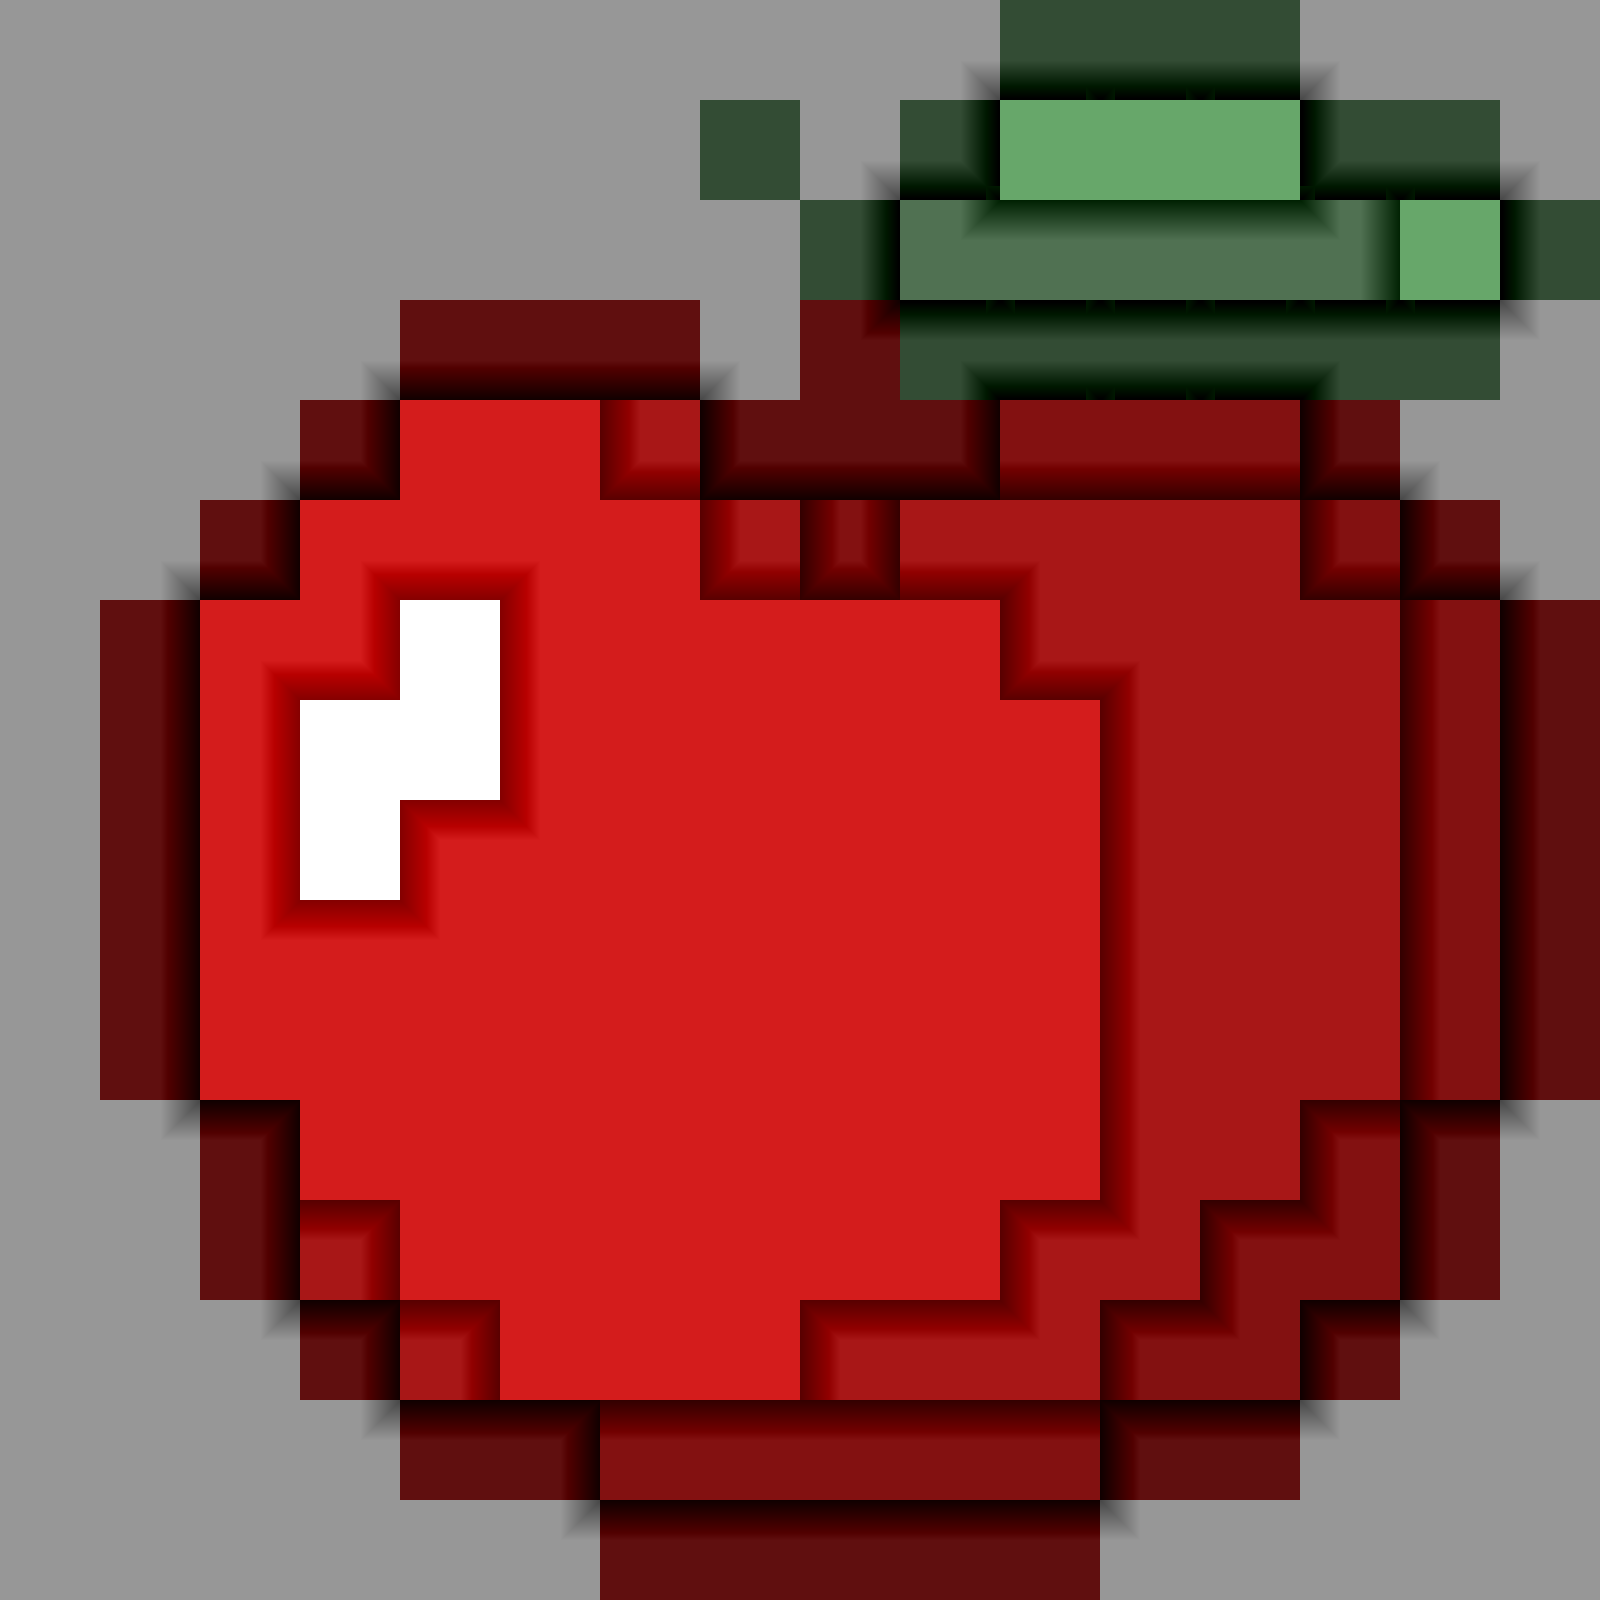
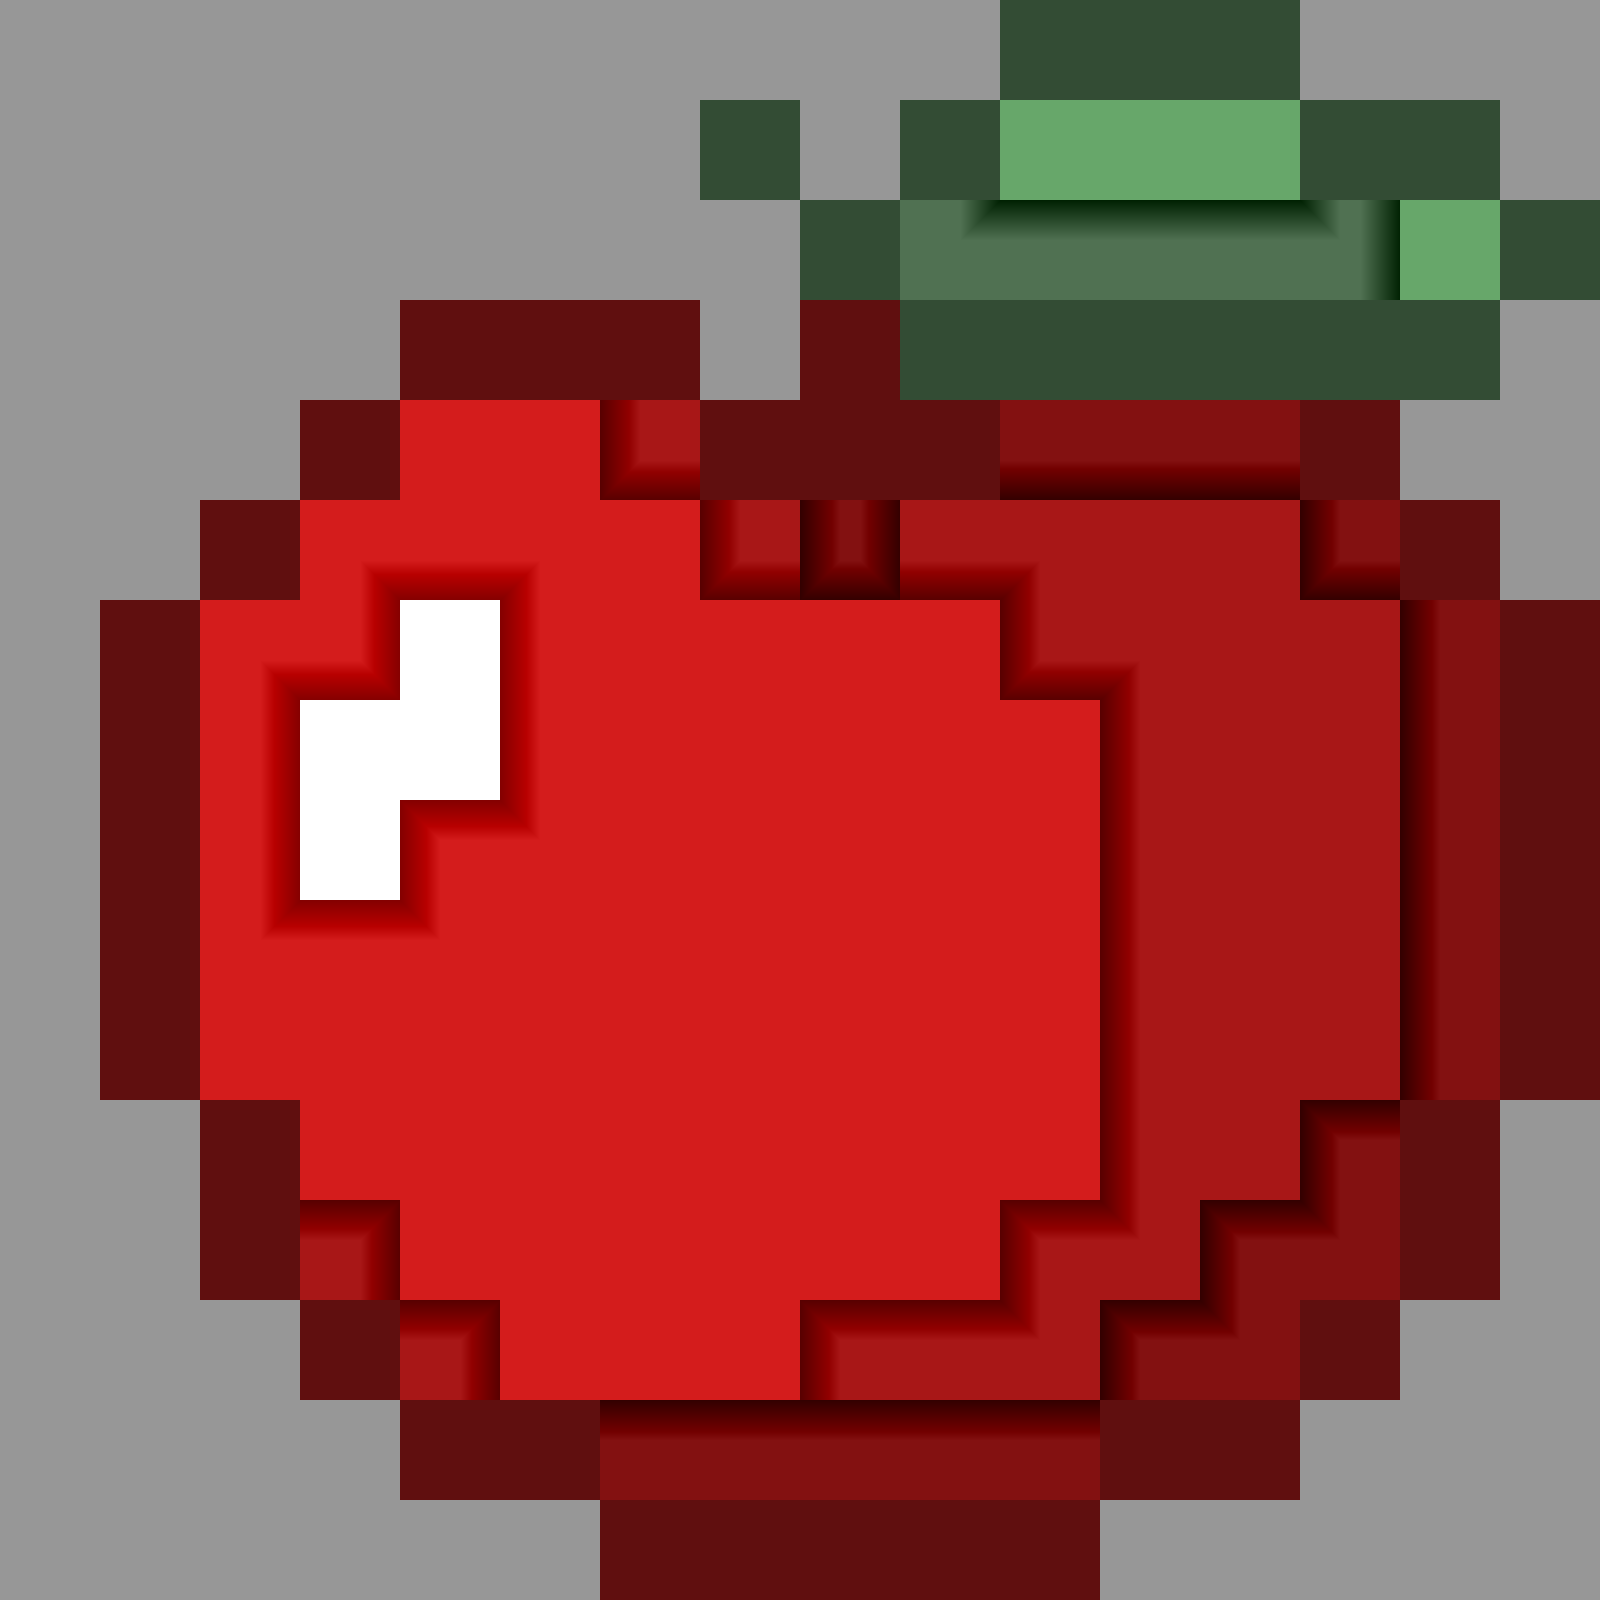
Fix angles on background

Changed region(s): [[0.0938, 0.0312, 0.9688, 0.9688]]

diff --git a/apply_depth.py b/apply_depth.py
@@ -4,52 +4,59 @@ path = "./image_To_Edit/"
 pathLayer = "./depth_Layer/"
 image = Image.open(path + "apple.png")
 layer = Image.open(pathLayer + "apple_depth.png")
+depth_levels = getDepthLevels(layer)
 size = 100
 
 
 def resizer(img) :
     name = "test.png"
-    depthMap = getDepthMap(layer)
+    depthMap = getDepthMap(layer, depth_levels)
+    print(depthMap)
     img2 = Image.new('RGBA', (img.height*size, img.width*size), "white")
     for i in range(img.height) :
         for j in range(img.width) :
             color = img.getpixel((i, j))[:3]
-            north = depthMap[j+1][i] > depthMap[j+1][i+1]
-            south = depthMap[j+1][i+2] > depthMap[j+1][i+1]
-            west = depthMap[j][i+1] > depthMap[j+1][i+1]
-            east = depthMap[j+2][i+1] > depthMap[j+1][i+1]
-            northwest = depthMap[j][i] > depthMap[j+1][i+1]
-            northeast = depthMap[j+2][i] > depthMap[j+1][i+1]
-            southwest = depthMap[j][i+2] > depthMap[j+1][i+1]
-            southeast = depthMap[j+2][i+2] > depthMap[j+1][i+1]
-            for m in range(size) :
-                for n in range(size) :
-                    if north :
-                        if img2.getpixel((i*size+m,j*size+n))[0] > color[0]-(80-m*2) and 80-m*2 >= 0 :
-                            img2.putpixel((i*size+m,j*size+n), (color[0]-(80-m*2), color[1]-(80-m*2), color[2]-(80-m*2)))
-                    if south :
-                        if img2.getpixel((i*size+m,j*size+n))[0] > color[0]-(80-(size-m)*2) and 80-(size-m)*2 >= 0 :
-                            img2.putpixel((i*size+m,j*size+n), (color[0]-(80-(size-m)*2), color[1]-(80-(size-m)*2), color[2]-(80-(size-m)*2)))
-                    if west :
-                        if img2.getpixel((i*size+m,j*size+n))[0] > color[0]-(80-n*2) and 80-n*2 >= 0 :
-                            img2.putpixel((i*size+m,j*size+n), (color[0]-(80-n*2), color[1]-(80-n*2), color[2]-(80-n*2)))
-                    if east :
-                        if img2.getpixel((i*size+m,j*size+n))[0] > color[0]-(80-(size-n)*2) and 80-(size-n)*2 >= 0 :
-                            img2.putpixel((i*size+m,j*size+n), (color[0]-(80-(size-n)*2), color[1]-(80-(size-n)*2), color[2]-(80-(size-n)*2)))
-                    if northwest :
-                        if img2.getpixel((i*size+m,j*size+n))[0] > color[0]-(80-max(m, n)*2) and 80-max(m, n)*2 >= 0 :
-                            img2.putpixel((i*size+m,j*size+n), (color[0]-(80-max(m, n)*2), color[1]-(80-max(m, n)*2), color[2]-(80-max(m, n)*2)))
-                    if northeast :
-                        if img2.getpixel((i*size+m,j*size+n))[0] > color[0]-(80-max(m, (size-n))*2) and 80-max(m, (size-n))*2 >= 0 :
-                            img2.putpixel((i*size+m,j*size+n), (color[0]-(80-max(m, (size-n))*2), color[1]-(80-max(m, (size-n))*2), color[2]-(80-max(m, (size-n))*2)))
-                    if southwest :
-                        if img2.getpixel((i*size+m,j*size+n))[0] > color[0]-(80-max((size-m), n)*2) and 80-max((size-m), n)*2 >= 0 :
-                            img2.putpixel((i*size+m,j*size+n), (color[0]-(80-max((size-m), n)*2), color[1]-(80-max((size-m), n)*2), color[2]-(80-max((size-m), n)*2)))
-                    if southeast :
-                        if img2.getpixel((i*size+m,j*size+n))[0] > color[0]-(80-max((size-m), (size-n))*2) and 80-max((size-m), (size-n))*2 >= 0 :
-                            img2.putpixel((i*size+m,j*size+n), (color[0]-(80-max((size-m), (size-n))*2), color[1]-(80-max((size-m), (size-n))*2), color[2]-(80-max((size-m), (size-n))*2)))
-                    if not(north or south or west or east or northwest or northeast or southwest or southeast) or img2.getpixel((i*size+m,j*size+n))[0] == 255 :
+            if depthMap[j+1][i+1] != -1 :
+                north = depthMap[j+1][i] > depthMap[j+1][i+1]
+                south = depthMap[j+1][i+2] > depthMap[j+1][i+1]
+                west = depthMap[j][i+1] > depthMap[j+1][i+1]
+                east = depthMap[j+2][i+1] > depthMap[j+1][i+1]
+                northwest = depthMap[j][i] > depthMap[j+1][i+1]
+                northeast = depthMap[j+2][i] > depthMap[j+1][i+1]
+                southwest = depthMap[j][i+2] > depthMap[j+1][i+1]
+                southeast = depthMap[j+2][i+2] > depthMap[j+1][i+1]
+                for m in range(size) :
+                    for n in range(size) :
+                        if north :
+                            if img2.getpixel((i*size+m,j*size+n))[0] > color[0]-(80-m*2) and 80-m*2 >= 0 :
+                                img2.putpixel((i*size+m,j*size+n), (color[0]-(80-m*2), color[1]-(80-m*2), color[2]-(80-m*2)))
+                        if south :
+                            if img2.getpixel((i*size+m,j*size+n))[0] > color[0]-(80-(size-m)*2) and 80-(size-m)*2 >= 0 :
+                                img2.putpixel((i*size+m,j*size+n), (color[0]-(80-(size-m)*2), color[1]-(80-(size-m)*2), color[2]-(80-(size-m)*2)))
+                        if west :
+                            if img2.getpixel((i*size+m,j*size+n))[0] > color[0]-(80-n*2) and 80-n*2 >= 0 :
+                                img2.putpixel((i*size+m,j*size+n), (color[0]-(80-n*2), color[1]-(80-n*2), color[2]-(80-n*2)))
+                        if east :
+                            if img2.getpixel((i*size+m,j*size+n))[0] > color[0]-(80-(size-n)*2) and 80-(size-n)*2 >= 0 :
+                                img2.putpixel((i*size+m,j*size+n), (color[0]-(80-(size-n)*2), color[1]-(80-(size-n)*2), color[2]-(80-(size-n)*2)))
+                        if northwest :
+                            if img2.getpixel((i*size+m,j*size+n))[0] > color[0]-(80-max(m, n)*2) and 80-max(m, n)*2 >= 0 :
+                                img2.putpixel((i*size+m,j*size+n), (color[0]-(80-max(m, n)*2), color[1]-(80-max(m, n)*2), color[2]-(80-max(m, n)*2)))
+                        if northeast :
+                            if img2.getpixel((i*size+m,j*size+n))[0] > color[0]-(80-max(m, (size-n))*2) and 80-max(m, (size-n))*2 >= 0 :
+                                img2.putpixel((i*size+m,j*size+n), (color[0]-(80-max(m, (size-n))*2), color[1]-(80-max(m, (size-n))*2), color[2]-(80-max(m, (size-n))*2)))
+                        if southwest :
+                            if img2.getpixel((i*size+m,j*size+n))[0] > color[0]-(80-max((size-m), n)*2) and 80-max((size-m), n)*2 >= 0 :
+                                img2.putpixel((i*size+m,j*size+n), (color[0]-(80-max((size-m), n)*2), color[1]-(80-max((size-m), n)*2), color[2]-(80-max((size-m), n)*2)))
+                        if southeast :
+                            if img2.getpixel((i*size+m,j*size+n))[0] > color[0]-(80-max((size-m), (size-n))*2) and 80-max((size-m), (size-n))*2 >= 0 :
+                                img2.putpixel((i*size+m,j*size+n), (color[0]-(80-max((size-m), (size-n))*2), color[1]-(80-max((size-m), (size-n))*2), color[2]-(80-max((size-m), (size-n))*2)))
+                        if not(north or south or west or east or northwest or northeast or southwest or southeast) or img2.getpixel((i*size+m,j*size+n))[0] == 255 :
                             img2.putpixel((i*size+m,j*size+n), color)
+            else :
+                for m in range(size) :
+                    for n in range(size) :
+                        img2.putpixel((i*size+m,j*size+n), color)
     img2.show()
     img2.save("./resized_Images/" + name)
 

diff --git a/depth_layer.py b/depth_layer.py
@@ -13,16 +13,17 @@ def getDepthLevels(img) :
 #print(getDepthLevels(image))
 
 
-def getDepthMap(img) :
+def getDepthMap(img, levels) :
     depthMap = [[] for i in range(img.height+2)]
-    depthLevels = getDepthLevels(img)
     for i in range(img.height+2) :
         for j in range(img.width+2) :
             if j == 0 or j == img.width+1 or i == 0 or i == img.height+1 :
                 depthMap[i].append(-1)
             else :
                 color = img.getpixel((j-1,i-1))[:3]
-                depth = depthLevels.index(color)
+                depth = levels.index(color)
+                if depth == 0 :
+                    depth = -1
                 depthMap[i].append(depth)
     return depthMap
 
